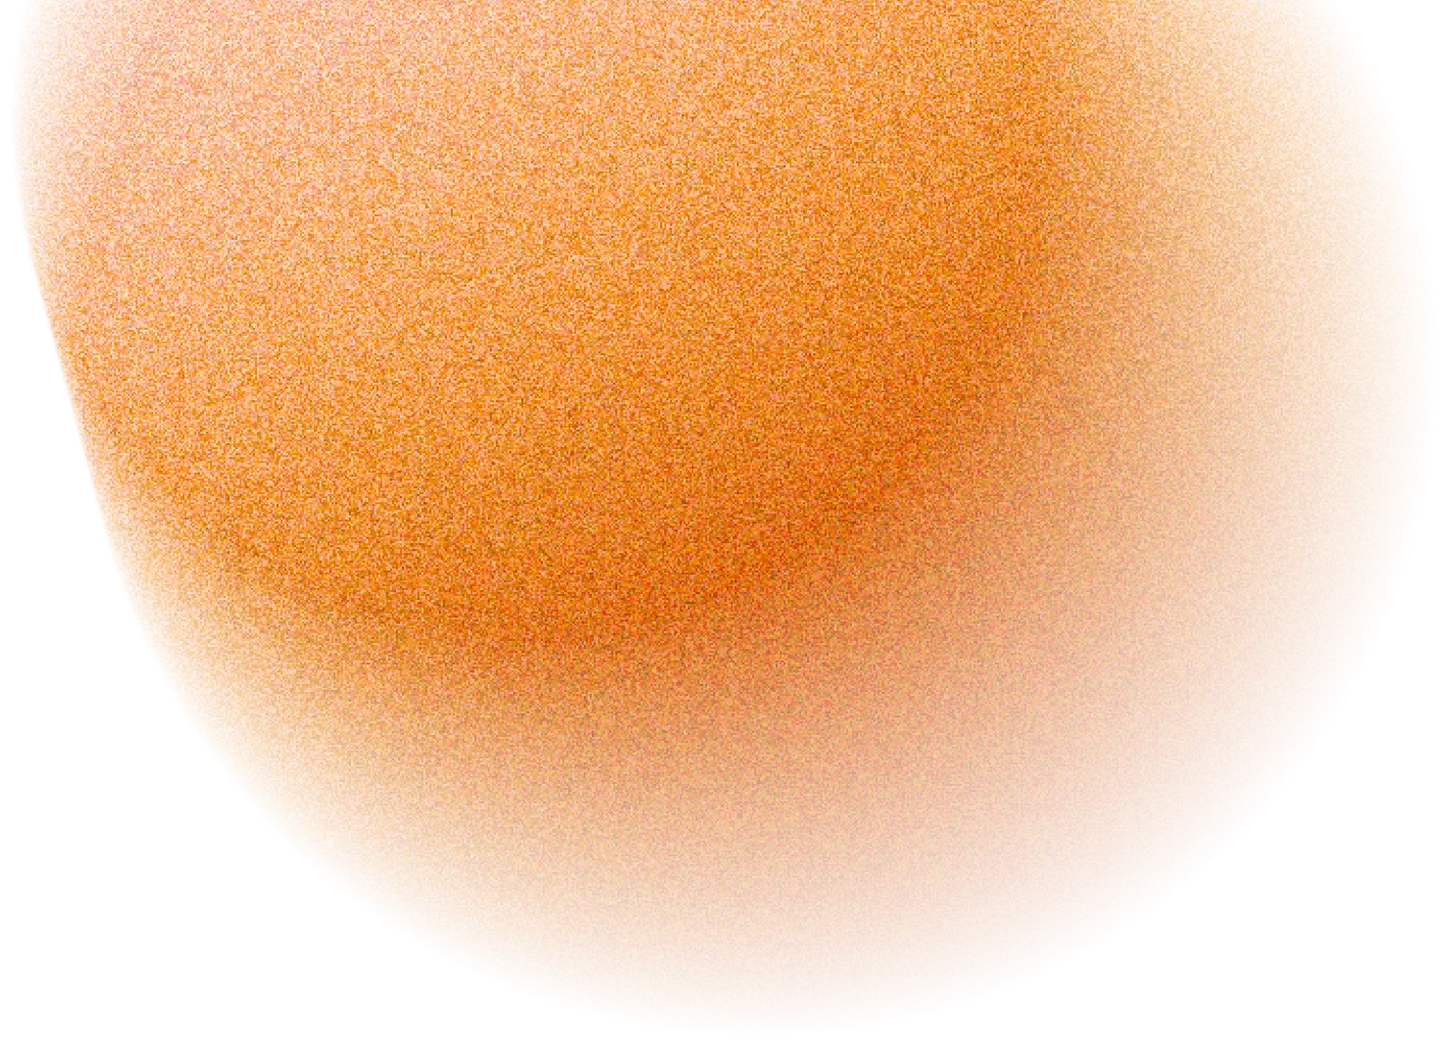
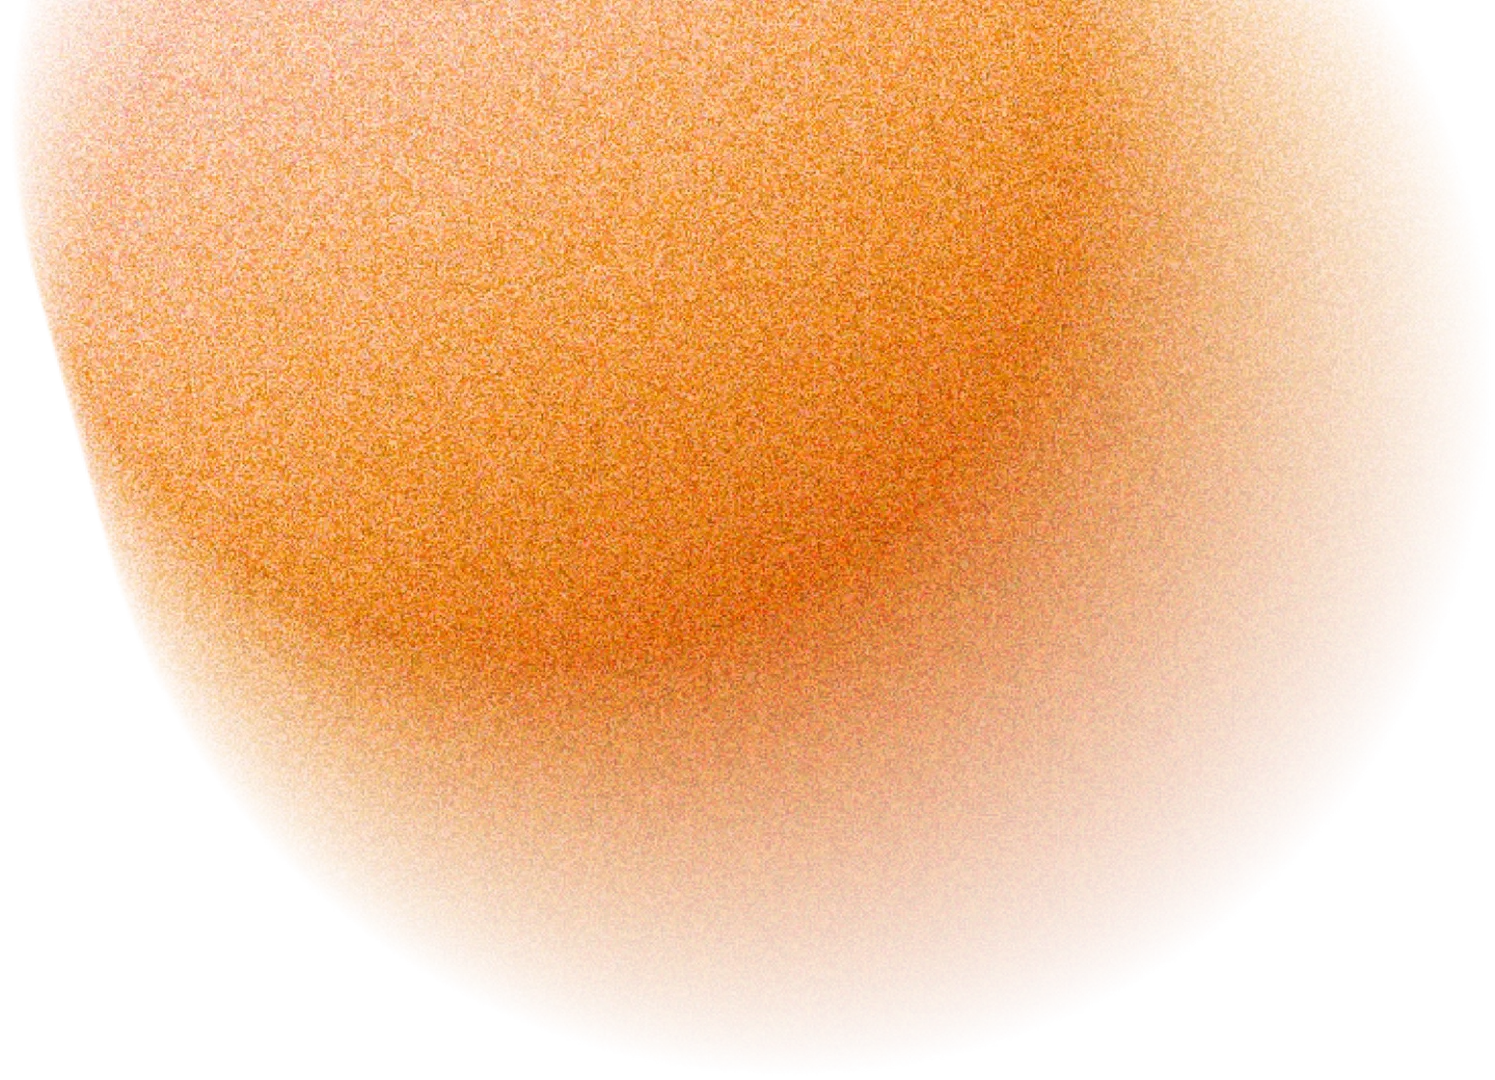
compress the size of the images

diff --git a/src/Components/Hero.jsx b/src/Components/Hero.jsx
@@ -1,10 +1,10 @@
 import React, { lazy, Suspense, useEffect, useState } from 'react';
 import bg from './../assets/compressedImages/Backgroundhero.webp';
 import { motion } from 'framer-motion';
-import img1 from '../assets/compressedImages/./img (1).jpeg';
-import img2 from '../assets/compressedImages/img (2).jpeg';
-import img3 from '../assets/compressedImages/img (3).jpeg';
-import img4 from '../assets/compressedImages/img (4).jpeg';
+import img1 from '../assets/compressedImages/./img (1).webp';
+import img2 from '../assets/compressedImages/img (2).webp';
+import img3 from '../assets/compressedImages/img (3).webp';
+import img4 from '../assets/compressedImages/img (4).webp';
 
 const Particles = lazy(() => import('react-tsparticles'));
 

diff --git a/src/pages/Services.jsx b/src/pages/Services.jsx
@@ -2,10 +2,10 @@ import { useState } from "react";
 import { Link } from "react-router-dom";
 import { motion, AnimatePresence, useSpring, useMotionValue } from "framer-motion";
 import { FiArrowUpRight } from "react-icons/fi";
-import img1 from './../assets/compressedImages/p2.jpg'
-import img2 from './../assets/compressedImages/p1.jpg'
-import img3 from './../assets/compressedImages/p4.jpg'
-import img4 from './../assets/compressedImages/p3.jpg'
+import img1 from './../assets/compressedImages/p2.webp'
+import img2 from './../assets/compressedImages/p1.webp'
+import img3 from './../assets/compressedImages/p4.webp'
+import img4 from './../assets/compressedImages/p3.webp'
 
 const services = [
   {

diff --git a/src/pages/About.jsx b/src/pages/About.jsx
@@ -2,9 +2,9 @@
 import { Link } from 'react-router-dom';
 import { motion, useScroll, useTransform, useSpring } from 'framer-motion';
 import { FiArrowUpRight } from 'react-icons/fi';
-import star from '../assets/compressedImages/Star1.png';
+import star from '../assets/compressedImages/Star1.webp';
 import img from '../assets/compressedImages/about img.webp'
-import img1 from './../assets/compressedImages/about img2.jpg'
+import img1 from './../assets/compressedImages/about img2.webp'
 
 
 export default function About() {

diff --git a/src/pages/Design.jsx b/src/pages/Design.jsx
@@ -1,7 +1,7 @@
 import { motion, useScroll, useTransform } from "framer-motion";
 import { useRef } from "react";
-import star from '../assets/compressedImages/Star2.png'
-import img from "../assets/compressedImages/p5.jpg"
+import star from '../assets/compressedImages/Star2.webp'
+import img from "../assets/compressedImages/p5.webp"
 import design1 from '../assets/compressedImages/design1.avif'
 import design2 from '../assets/compressedImages/design2.avif'
 import design3 from '../assets/compressedImages/design3.avif'

diff --git a/src/Components/Footer.jsx b/src/Components/Footer.jsx
@@ -1,6 +1,6 @@
 import React from 'react';
 import { motion, useScroll, useTransform } from 'framer-motion';
-import logo from '../assets/compressedImages/logo2.png';
+import logo from '../assets/compressedImages/logo2.webp';
 
  
 

diff --git a/src/pages/CTA.jsx b/src/pages/CTA.jsx
@@ -2,7 +2,7 @@ import React from 'react';
 import { motion } from 'framer-motion';
 import { FiCalendar } from "react-icons/fi";
 import { FaWhatsapp } from "react-icons/fa";
-import img from '../assets/compressedImages/CTAimg.jpg';
+import img from '../assets/compressedImages/CTAimg.webp';
 
 const CTASection = () => {
   const whatsappNumber = "1234567890";

diff --git a/src/pages/Navbar.jsx b/src/pages/Navbar.jsx
@@ -1,5 +1,5 @@
 import React, { useState, useEffect } from 'react'
-import logo from './../assets/compressedImages/Logo.png'
+import logo from './../assets/compressedImages/Logo.webp'
 import { motion, AnimatePresence } from 'framer-motion'
 
 const Navbar = () => {

diff --git a/src/pages/Project.jsx b/src/pages/Project.jsx
@@ -1,6 +1,6 @@
 import { useState, useEffect } from "react";
 import { motion, AnimatePresence } from "framer-motion";
-import arrow from "../assets/compressedImages/Group 19.png";
+import arrow from "../assets/compressedImages/Group 19.webp";
 import yumyumcover1 from './../assets/Artboard-WebP/Artboard 1.webp'
 import shawarmacover2 from './../assets/Artboard-WebP/Artboard 4.webp'
 import stovevlubcover3 from './../assets/Artboard-WebP/Artboard 5.webp'